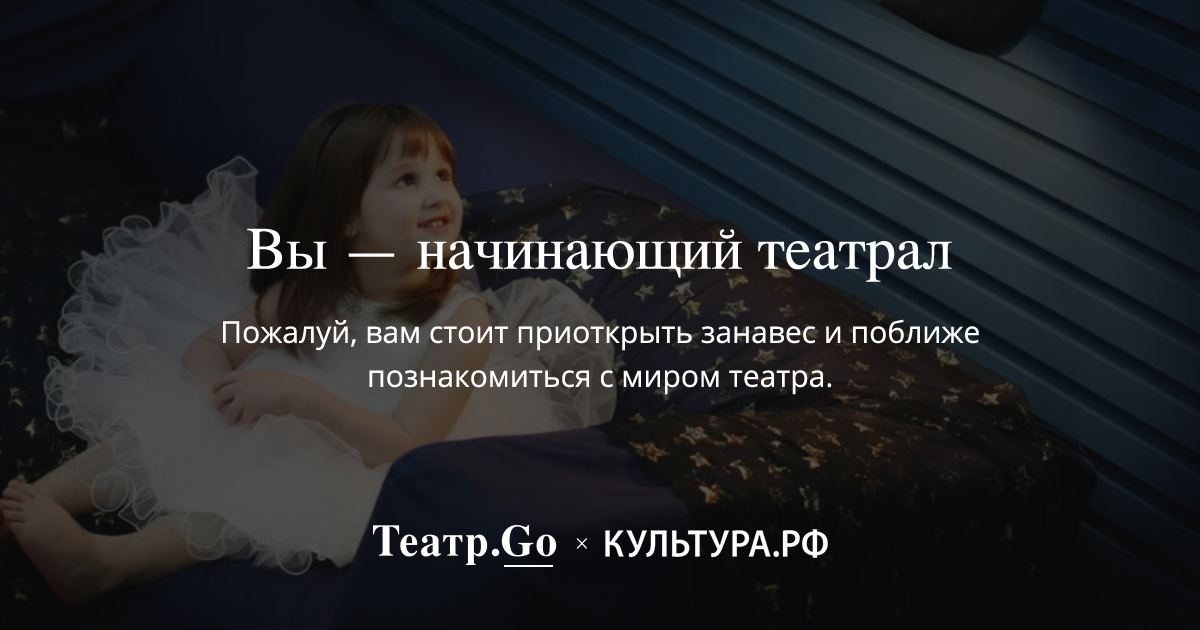
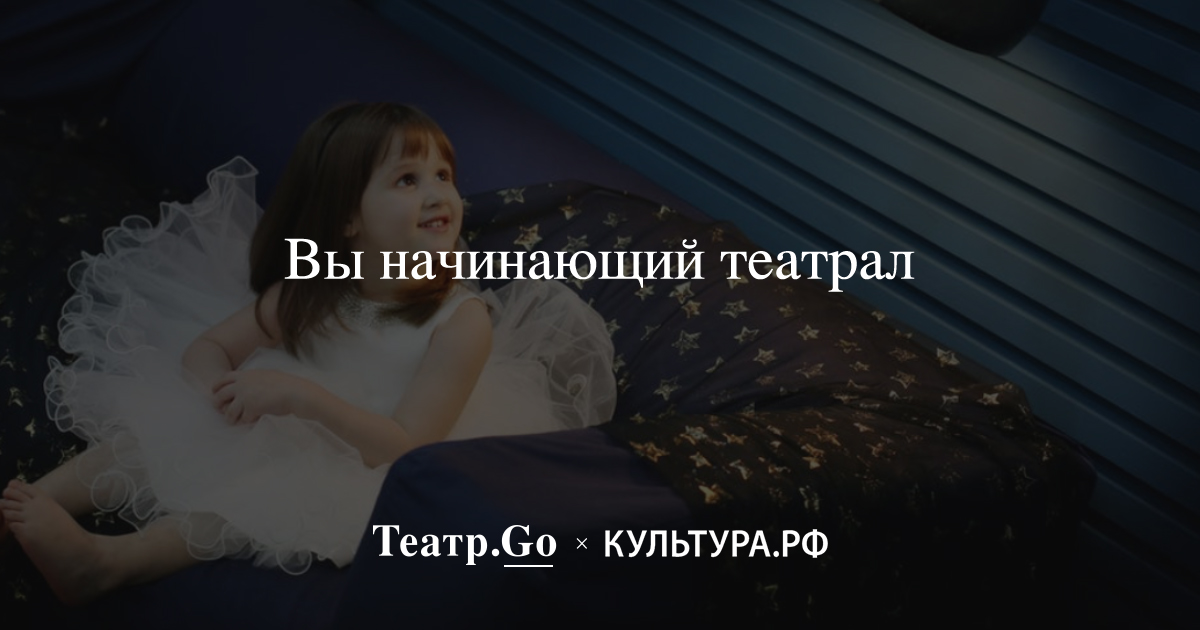
styling fixes

Changed region(s): [[0.185, 0.3619, 0.8017, 0.4524], [0.3083, 0.573, 0.6783, 0.6333], [0.185, 0.5127, 0.8325, 0.5429]]

diff --git a/index.html b/index.html
@@ -2,7 +2,7 @@
 <html>
     <head>
         <meta charset="utf-8">
-        <meta name="viewport" content="width=450, initial-scale=1">
+        <meta name="viewport" content="width=580, initial-scale=1">
         <title>Тест Театр.Go и Культура.рф</title>
         <link rel="stylesheet" href="styles.css" type="text/css" media="all" />
         <script src="js/lib/jquery-3.3.1.min.js"></script>
@@ -19,15 +19,15 @@
             </a>
         </div>
         <div class="mainbox">
-            <div class="coverimg" style="background-image: url(img/intro-pexels.com.jpg);">
+            <div class="coverimg" style="background-image: url(img/intro-blog.radario.ru.jpg);">
                 <h2>
                     <br>
                 </h2>
-                <h1>Какой ты театрал?</h1>
+                <h1 style="font-size: 36px">Какой ты театрал?</h1>
             </div>
             <div class="question-container">
-                <i>Фото с сайта: pexels.com</i>
-                <div class="welcome-text">
+                <i>Фото с сайта: blog.radario.ru</i>
+                <div class="welcome-text" style="font-size: 16px">
                     Проверь свои знания перед Всемирным днем театра!<br>
                     Пройди тест, поделись результатами с друзьями и получи возможность выиграть сертификат на покупку билетов в театры своего города.
                 </div>
@@ -127,7 +127,7 @@
                             В этот день можно купить билеты на лучшие постановки страны со скидкой до 90% в рамках проекта Театр.Go. Смотрите список театров-участников и <a href="https://afisha.yandex.ru/skidka-na-bilety-v-teatr">подписывайтесь на уведомления об акции</a>.
                         </div>
                         <div style="text-align:center; margin: 40px 0 30px 0">
-                            <div style="margin-bottom:50px">
+                            <div style="margin-bottom: 50px">
                                 <img class="share" height="23px" src="img/fb@2x.png" onclick="shareFB({{rank}})">
                                 <img class="share" height="23px" src="img/vk@2x.png" onclick="shareVK({{rank}})">
                                 <img class="share" height="23px" src="img/tw@2x.png" onclick="window.open('https://twitter.com/intent/tweet?text=Какой%20ты%20театрал?%20Проверь%20свои%20знания%20перед%20Всемирным%20днем%20театра!%20–%20Театр.Go%20x%20Культура.рф%20https://xrem.github.io/radarioQuestionary.teatrgo%20с%20помощью%20@cultrf', '_blank')">

diff --git a/js/config.js b/js/config.js
@@ -171,8 +171,8 @@
                 },
                 {
                     headerText: 'Чье имя носят театры и в Москве, и в Санкт-Петербурге?',
-                    headerImage: '7-pexels.com.jpg',
-                    source: 'pexels.com',
+                    headerImage: '7-culture.ru.jpg',
+                    source: 'culture.ru',
                     questionType: 'pickOne',
                     variants: {
                         a: {
@@ -226,7 +226,7 @@
                     }
                 },
                 {
-                    headerText: 'Николай Анненков был первым в мире профессиональным театральным актером, который отметил свой 100-летний юбилей на сцене. А кто был вторым?',
+                    headerText: 'Николай Анненков был первым актером, который отметил свой 100-летний юбилей на сцене. А кто был вторым?',
                     headerImage: '9-pexels.com.jpg',
                     source: 'pexels.com',
                     questionType: 'pickOne',

diff --git a/js/app.js b/js/app.js
@@ -14,7 +14,7 @@
         };
         var processToResults = function() {
             var rank = 1;
-            var rankDescription = 'Вам стоит приоткрыть занавес и узнать театральное искусство поближе!';
+            var rankDescription = 'Пожалуй, вам стоит приоткрыть занавес и познакомиться с миром театра поближе.';
             if (_Q.score > 3) {
                 rank++;
             }

diff --git a/styles.css b/styles.css
@@ -181,7 +181,7 @@ a {
     text-align: center;
     height: 200px;
     border-radius: 10px 10px 0 0;
-    padding: 50px 50px 50px 50px;
+    padding: 50px 20px 50px 20px;
 }
 
 .question-container {
